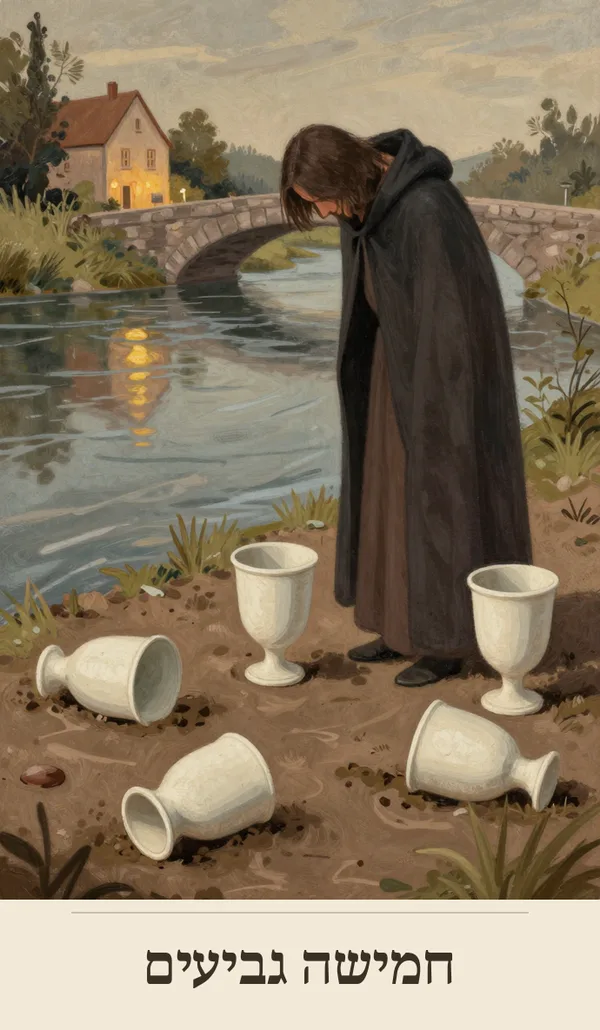
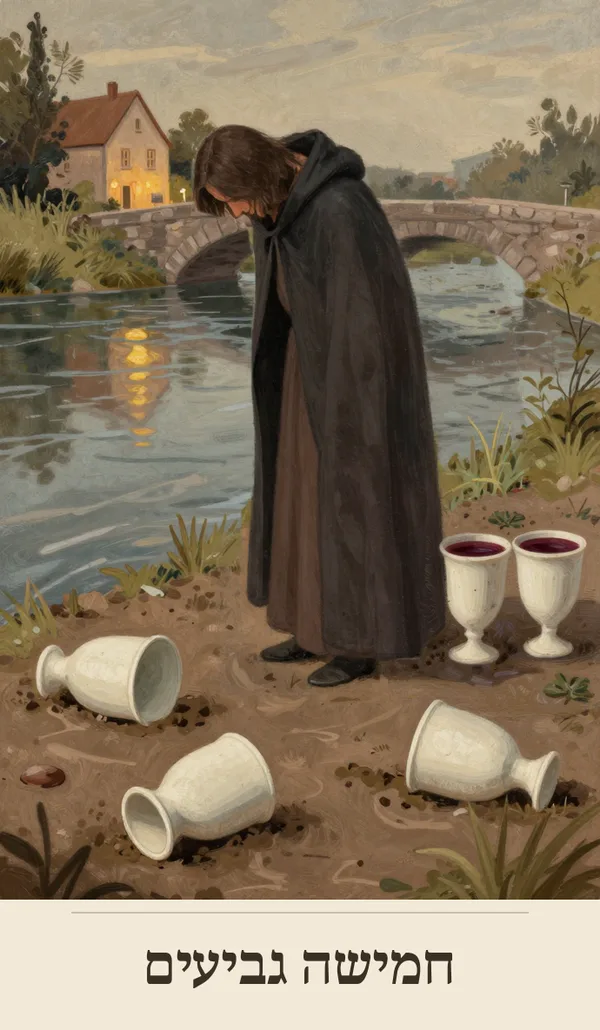
content(tarot): 5 of Cups — the two standing cups now stand full behind the figure; assets v13
Figure shifted left, the cup that stood in front of him removed, two
wine-filled goblets placed behind his back (as the card's reading says).

Changed region(s): [[0.3, 0.0932, 1.0, 0.7146]]

diff --git a/shared/tarot/cards.ts b/shared/tarot/cards.ts
@@ -159,7 +159,7 @@ export function cardBySlug(slug: string): CardStruct | undefined {
  * גרסת נכסי החפיסה — מעלים אותה אחרי כל החלפת תמונות כדי לעקוף את מטמון
  * ה-CDN (Cloudflare) והדפדפן: שם הקובץ נשאר, ה-query string משתנה.
  */
-export const DECK_ASSETS_VERSION = 12;
+export const DECK_ASSETS_VERSION = 13;
 
 /** נתיב התמונה הציבורי של קלף; הנכסים מגיעים מצנרת tarot-deck. */
 export function cardImagePath(id: string): string {

diff --git a/shared/tarot/tarot.test.ts b/shared/tarot/tarot.test.ts
@@ -62,8 +62,8 @@ describe("tarot card structure", () => {
   it("looks up cards and builds image paths", () => {
     expect(cardById("pents-09")?.he).toBe("תשעה מטבעות");
     expect(cardById("nope")).toBeUndefined();
-    expect(cardImagePath("major-00")).toBe("/tarot-cards/major-00.webp?v=12");
-    expect(CARD_BACK_IMAGE).toBe("/tarot-cards/back.webp?v=12");
+    expect(cardImagePath("major-00")).toBe("/tarot-cards/major-00.webp?v=13");
+    expect(CARD_BACK_IMAGE).toBe("/tarot-cards/back.webp?v=13");
   });
 });
 
